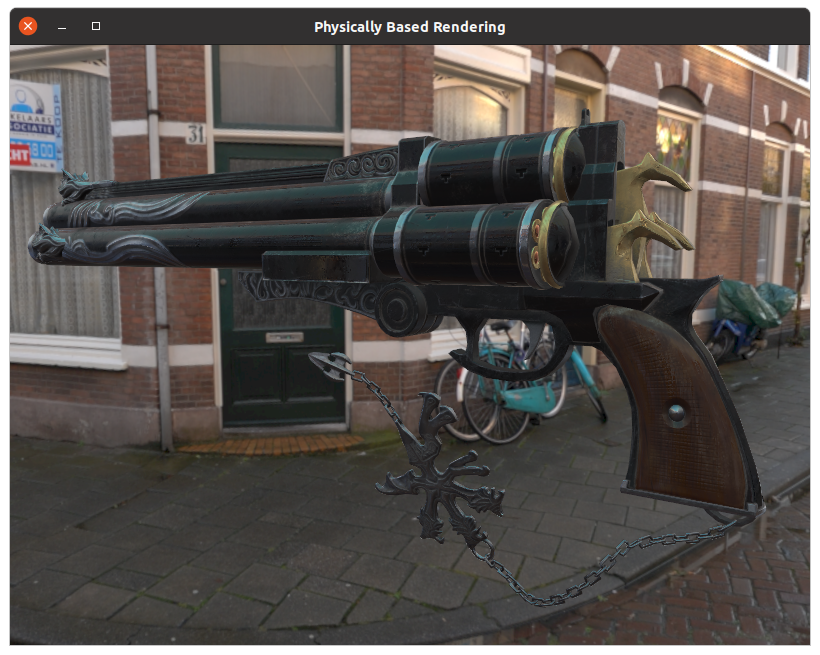
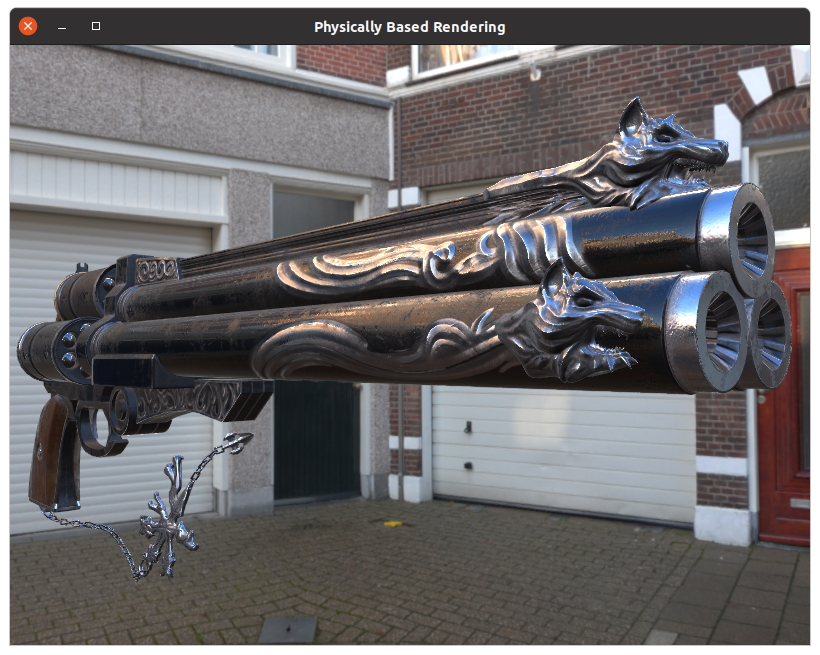
finally works correctly now, changed 8-bit to 16-bit float

diff --git a/engine/src/lambert.cpp b/engine/src/lambert.cpp
@@ -3,152 +3,6 @@
 #include <GLFW/glfw3.h>
 
 namespace Morpheus {
-    LambertSHComputeKernel::LambertSHComputeKernel(uint groupSize) : INodeOwner(NodeType::LAMBERT_SH_COMPUTE_KERNEL),
-        mGroupSize(groupSize), mGPUBackend(nullptr), bInJob(false) {
-    }
-
-    void LambertSHComputeKernel::init() {
-        if (!mGPUBackend) {
-			ContentExtParams<Shader> params;
-			params.mConfigOverride.mDefines["GROUP_SIZE"] = std::to_string(mGroupSize);
-			mGPUBackend = loadEx<Shader>("/internal/lambertsh.comp", params, this, true);
-
-            mOffsetUniform.find(mGPUBackend, "outputOffset");
-
-			if (!mOffsetUniform.valid()) {
-				throw std::runtime_error("LambertSHComputeKernel: could not find outputOffset!");
-			}
-
-            bInJob = false;
-            mGPUOutputBuffer = 0;
-        }
-    }
-
-    LambertSHComputeKernel::~LambertSHComputeKernel() {
-        if (mGPUOutputBuffer != 0) {
-            glDeleteBuffers(1, &mGPUOutputBuffer);
-        }
-    }
-
-    uint LambertSHComputeKernel::addJob(const LambertSHComputeJob& job) {
-        if (!mGPUBackend)
-            throw std::runtime_error("LambertSHComputeKernel: Kernel has not been initialized!");
-
-        if (bInJob)
-            throw std::runtime_error("LambertSHComputeKernel: Pending Jobs!");
-        
-        if (job.mInputImage->textureType() != TextureType::CUBE_MAP)
-            throw std::runtime_error("LambertSHComputeKernel: Input must be cubemap!");
-
-        if (job.mInputImage->format() != GL_RGBA8) 
-            throw std::runtime_error("Image format not supported!");
-
-        uint result = mJobs.size();
-        mJobs.emplace_back(job);
-        return result;
-    }
-
-    auto outputFloatSizeFor(const Texture* image, const uint mGroupSize) {
-        return sizeof(float) * LAMBERT_SH_COEFFS *
-            image->height() / mGroupSize;
-    };
-
-    void LambertSHComputeKernel::submit(const LambertSHComputeJob& job) {
-        beginQueue();
-        addJob(job);
-        submitQueue();
-    }
-
-    void LambertSHComputeKernel::submitQueue() {
-        if (bInJob)
-            throw std::runtime_error("LambertSHComputeKernel: Pending Jobs!");
-
-        uint bufferSize = 0;
-        for (auto& job : mJobs) {
-            bufferSize += sizeof(float) * outputFloatSizeFor(job.mInputImage, mGroupSize);
-        }
-
-        glCreateBuffers(1, &mGPUOutputBuffer);
-        glBindBuffer(GL_SHADER_STORAGE_BUFFER, mGPUOutputBuffer);
-        glBufferData(GL_SHADER_STORAGE_BUFFER, bufferSize, nullptr, GL_STREAM_READ);
-        glBindBuffer(GL_SHADER_STORAGE_BUFFER, 0); // unbind
-
-        glUseProgram(mGPUBackend->id());
-
-        GL_ASSERT;
-
-        glBindBufferBase(GL_SHADER_STORAGE_BUFFER, 0, mGPUOutputBuffer);
-
-        GL_ASSERT;
-
-        uint offset = 0;
-        for (auto& job : mJobs) {
-            uint num_groups_x = job.mInputImage->height() / mGroupSize;
-            mOffsetUniform.set(offset);
-            glBindTexture(GL_TEXTURE_CUBE_MAP, job.mInputImage->id());
-            glBindImageTexture(0, job.mInputImage->id(), 0, false, 0, 
-                GL_READ_WRITE, GL_RGBA8);
-
-            GL_ASSERT;
-
-            glDispatchCompute(num_groups_x, 1, 1);
-
-            offset += outputFloatSizeFor(job.mInputImage, mGroupSize);
-        }
-
-        bInJob = true;
-    }
-
-    float* LambertSHComputeKernel::results(uint job_id) {
-        uint blockSize = 3 * LAMBERT_SH_COEFFS;
-        return &mResultBuffer[blockSize * job_id];
-    }
-
-    void LambertSHComputeKernel::barrier() {
-
-        glMemoryBarrier(GL_SHADER_STORAGE_BARRIER_BIT);
-
-        glBindBuffer(GL_SHADER_STORAGE_BUFFER, mGPUOutputBuffer);
-        void* buf_data = glMapBuffer(GL_SHADER_STORAGE_BUFFER, GL_READ_ONLY);
-        float* out_data = static_cast<float*>(buf_data);
-
-        mResultBuffer.resize(mJobs.size() * 3 * LAMBERT_SH_COEFFS);
-        std::fill(mResultBuffer.begin(), mResultBuffer.end(), 0.0f);
-
-        // Sum over work group results on the CPU
-        uint offset = 0;
-        uint blockSize = 3 * LAMBERT_SH_COEFFS;
-        for (uint i_job = 0; i_job < mJobs.size(); ++i_job) {
-            auto& job = mJobs[i_job];
-            uint num_groups_x = job.mInputImage->height() / mGroupSize;
-
-            for (uint group_result = 0; group_result < num_groups_x; ++group_result) {
-                for (uint block_offset = 0; block_offset < blockSize; ++block_offset) {
-                    mResultBuffer[i_job * blockSize + block_offset] += 
-                        out_data[offset + group_result * blockSize + block_offset];
-                }
-            }
-
-            offset += outputFloatSizeFor(job.mInputImage, mGroupSize);
-        }
-
-        glUnmapBuffer(GL_SHADER_STORAGE_BUFFER);
-        glDeleteBuffers(1, &mGPUOutputBuffer);
-        mGPUOutputBuffer = 0;
-
-        // Apply the transfer function to results
-        for (uint i_job = 0; i_job < mJobs.size(); ++i_job) {
-            mSHTransferFunction.applySH(&mResultBuffer[i_job * blockSize],
-                &mResultBuffer[i_job * blockSize], LAMBERT_SH_COEFFS, 3);
-        }
-    }
-
-    void LambertSHComputeKernel::beginQueue() {
-        mJobs.clear();
-        mResultBuffer.clear();
-        bInJob = false;
-    }
-
 	LambertComputeKernel::LambertComputeKernel(uint groupSize) :
 		INodeOwner(NodeType::LAMBERT_COMPUTE_KERNEL), 
 		mGroupSize(groupSize), mGPUBackend(nullptr) {

diff --git a/engine/include/engine/lambert.hpp b/engine/include/engine/lambert.hpp
@@ -105,54 +105,6 @@ namespace Morpheus {
 		}
 	};
 
-	struct LambertSHComputeJob {
-		Texture* mInputImage;
-
-		inline LambertSHComputeJob(Texture* image = nullptr) : mInputImage(image) {
-		}
-	};
-
-	// Implements a lambert convolution in the SH basis on the GPU. Returns a set of 9 SH coefficients for 3 color channels.
-	class LambertSHComputeKernel : public INodeOwner {
-	private:
-		GLuint mGPUOutputBuffer;
-		
-		std::vector<LambertSHComputeJob> mJobs;
-		std::vector<float> mResultBuffer;
-
-		Shader* mGPUBackend;
-		ShaderUniform<uint> mOffsetUniform;
-		LambertSHKernelCPU mSHTransferFunction;
-
-		bool bInJob;
-		uint mGroupSize;
-
-	public:
-
-		LambertSHComputeKernel(uint groupSize = LAMBERT_COMPUTE_KERNEL_DEFAULT_GROUP_SIZE);
-		~LambertSHComputeKernel();
-
-		void init() override;
-
-		// These functions will submit a batch of jobs to the GPU
-		void beginQueue();
-		uint addJob(const LambertSHComputeJob& job);
-		void submitQueue();
-
-		// This function submits a single job to the GPU
-		void submit(const LambertSHComputeJob& job);
-
-		// Use this before attempting to access results of jobs
-		void barrier();
-
-		float* results(uint job_id = 0);
-
-		inline uint shCount() const {
-			return LAMBERT_SH_COEFFS;
-		}
-	};
-	SET_NODE_ENUM(LambertSHComputeKernel, LAMBERT_SH_COMPUTE_KERNEL);
-
 	struct LambertComputeJob {
 		Texture* mInputImage;
 		int mOutputSize;

diff --git a/engine/include/engine/texture.hpp b/engine/include/engine/texture.hpp
@@ -57,6 +57,8 @@ namespace Morpheus {
 		inline uint depth() const 				{ return mDepth; }
 		inline uint samples() const 			{ return mSamples; }
 		inline GLenum format() const 			{ return mFormat; }
+		inline glm::ivec2 size2d() const 		{ return glm::ivec2(mWidth, mHeight); }
+		inline glm::ivec3 size3d() const 		{ return glm::ivec3(mWidth, mHeight, mDepth); }
 
 		// Resize the texture. Note that this will destroy everything in the texture.
 		void resize(uint width, uint height = 1, uint depth = 1, 
@@ -68,8 +70,8 @@ namespace Morpheus {
 		}
 
 		inline void bindImage(GLuint unit, GLenum access, GLint level = 0) const {
-			glActiveTexture(GL_TEXTURE0 + unit);
-			glBindTexture(mGLTarget, mId);
+			/*glActiveTexture(GL_TEXTURE0 + unit);
+			glBindTexture(mGLTarget, mId);*/
 			glBindImageTexture(unit, mId, level, false, 0, access, mFormat);
 		}
 
@@ -82,12 +84,12 @@ namespace Morpheus {
 
 	template <>
 	struct ContentExtParams<Texture> {
-		bool bOverrideInternalFormat;
 		GLenum mInternalFormat;
+		bool bGenerateMips;
 
-		ContentExtParams(GLenum internalFormat = 0) : 
+		ContentExtParams(GLenum internalFormat = 0, bool generateMips = true) : 
 			mInternalFormat(internalFormat), 
-			bOverrideInternalFormat(internalFormat > 0) {
+			bGenerateMips(generateMips) {
 		}
 	};
 

diff --git a/simple-pbr/main.cpp b/simple-pbr/main.cpp
@@ -2,7 +2,7 @@
 #include <engine/gui.hpp>
 #include <engine/cameracontroller.hpp>
 #include <engine/samplefunction.hpp>
-#include <engine/lambert.hpp>
+#include <engine/lambertsh.hpp>
 #include <engine/ggx.hpp>
 #include <engine/sphericalharmonics.hpp>
 #include <engine/brdf.hpp>
@@ -128,7 +128,9 @@ int main() {
 		createNode(transform, scene);
 		transform->addChild(staticMesh);
 
-		Texture* environmentHDRI = load<Texture>("content/textures/environment.hdr", scene);
+		ContentExtParams<Texture> environmentLoadParams;
+		environmentLoadParams.mInternalFormat = GL_RGBA16F;
+		Texture* environmentHDRI = loadEx<Texture>("content/textures/environment.hdr", environmentLoadParams, scene);
 
 		auto lambertSHKernel = new LambertSHComputeKernel();
 		auto hdriToCubemap = new HDRIToCubeKernel();
@@ -159,10 +161,7 @@ int main() {
 		// Initialize the scene graph
 		init(scene);
 
-		HDRIToCubeComputeJob hdriJob;
-		hdriJob.mHDRI = environmentHDRI;
-		hdriJob.mOutputFormat = GL_RGBA8;
-		hdriJob.mTextureSize = 2048;
+		HDRIToCubeComputeJob hdriJob(environmentHDRI, 2048, GL_RGBA16F);
 
 		// Convert HDRI to cubemap
 		Texture* environment = hdriToCubemap->submit(hdriJob, scene);

diff --git a/pbr/main.cpp b/pbr/main.cpp
@@ -2,7 +2,7 @@
 #include <engine/gui.hpp>
 #include <engine/cameracontroller.hpp>
 #include <engine/samplefunction.hpp>
-#include <engine/lambert.hpp>
+#include <engine/lambertsh.hpp>
 #include <engine/ggx.hpp>
 #include <engine/sphericalharmonics.hpp>
 #include <engine/brdf.hpp>
@@ -95,8 +95,7 @@ int main() {
 		transform->mTransform = Transform::makeRotation(glm::angleAxis(glm::pi<float>(), glm::vec3(0.0, 1.0, 0.0)));
 
 		ContentExtParams<Texture> params;
-		params.bOverrideInternalFormat = true;
-		params.mInternalFormat = GL_RGBA8;
+		params.mInternalFormat = GL_RGBA16F;
 		Texture* tex = loadEx<Texture>("content/textures/environment.hdr", params, scene);
  
 		auto lambertKernelSH = new LambertSHComputeKernel();
@@ -117,10 +116,7 @@ int main() {
 		init(scene);
 
 		// Convert texture to a cube map
-		HDRIToCubeComputeJob job;
-		job.mHDRI = tex;
-		job.mOutputFormat = GL_RGBA8;
-		job.mTextureSize = 2048;
+		HDRIToCubeComputeJob job(tex, 2048, GL_RGBA16F);
 		Texture* envCube = hdri2cubeKernel->submit(job, scene);
 
 		// Create a lookup texture with the BRDF kernel

diff --git a/engine/include/engine/shader.hpp b/engine/include/engine/shader.hpp
@@ -624,6 +624,15 @@ namespace Morpheus {
 	template <> struct C_TO_GL_TYPE_<glm::dmat3x4> {
 		static const GLenum RESULT = GL_DOUBLE_MAT3x4;
 	};
+	template <> struct C_TO_GL_TYPE_<glm::ivec2> {
+		static const GLenum RESULT = GL_INT_VEC2;
+	};
+	template <> struct C_TO_GL_TYPE_<glm::ivec3> {
+		static const GLenum RESULT = GL_INT_VEC3;
+	};
+	template <> struct C_TO_GL_TYPE_<glm::ivec4> {
+		static const GLenum RESULT = GL_INT_VEC4;
+	};
 
 	template <typename T>
 	using UNIFORM_C_TYPE_ = 

diff --git a/engine/src/texture.cpp b/engine/src/texture.cpp
@@ -31,7 +31,7 @@ namespace Morpheus {
 
 	INodeOwner* ContentFactory<Texture>::loadEx(const std::string& source, Node loadInto, const void* extParams) {
 		const auto param = reinterpret_cast<const ContentExtParams<Texture>*>(extParams);
-		if (param->bOverrideInternalFormat)
+		if (param->mInternalFormat > 0)
 			return loadInternal<true>(source, param->mInternalFormat);
 		else
 			return loadInternal<false>(source, 0);

diff --git a/engine/src/shader.cpp b/engine/src/shader.cpp
@@ -284,7 +284,6 @@ namespace Morpheus {
 							unif.value()["sampler"].get_to(samplerSrc);
 						// Use provided a format
 						if (unif.value().contains("format")) {
-							params.bOverrideInternalFormat = true;
 							string formatStr;
 							unif.value()["format"].get_to(formatStr);
 							params.mInternalFormat = getFormatFromString(formatStr);

diff --git a/engine/include/engine/hdri2cube.hpp b/engine/include/engine/hdri2cube.hpp
@@ -8,6 +8,12 @@ namespace Morpheus {
 		Texture* mHDRI;
 		uint mTextureSize;
 		GLenum mOutputFormat;
+
+		HDRIToCubeComputeJob(Texture* hdri, uint textureSize, GLenum outputFormat) :
+			mHDRI(hdri),
+			mTextureSize(textureSize),
+			mOutputFormat(outputFormat) {
+		}
 	};
 
 	class HDRIToCubeKernel : public INodeOwner {

diff --git a/engine/include/engine/brdf.hpp b/engine/include/engine/brdf.hpp
@@ -5,7 +5,7 @@
 #include <engine/samplefunction.hpp>
 #include <engine/sphericalharmonics.hpp>
 
-#define DEFAULT_CT_LUT_PIXELS 128
+#define DEFAULT_CT_LUT_PIXELS 256
 #define DEFAULT_CT_LUT_GROUP_SIZE 32
 
 namespace Morpheus {
